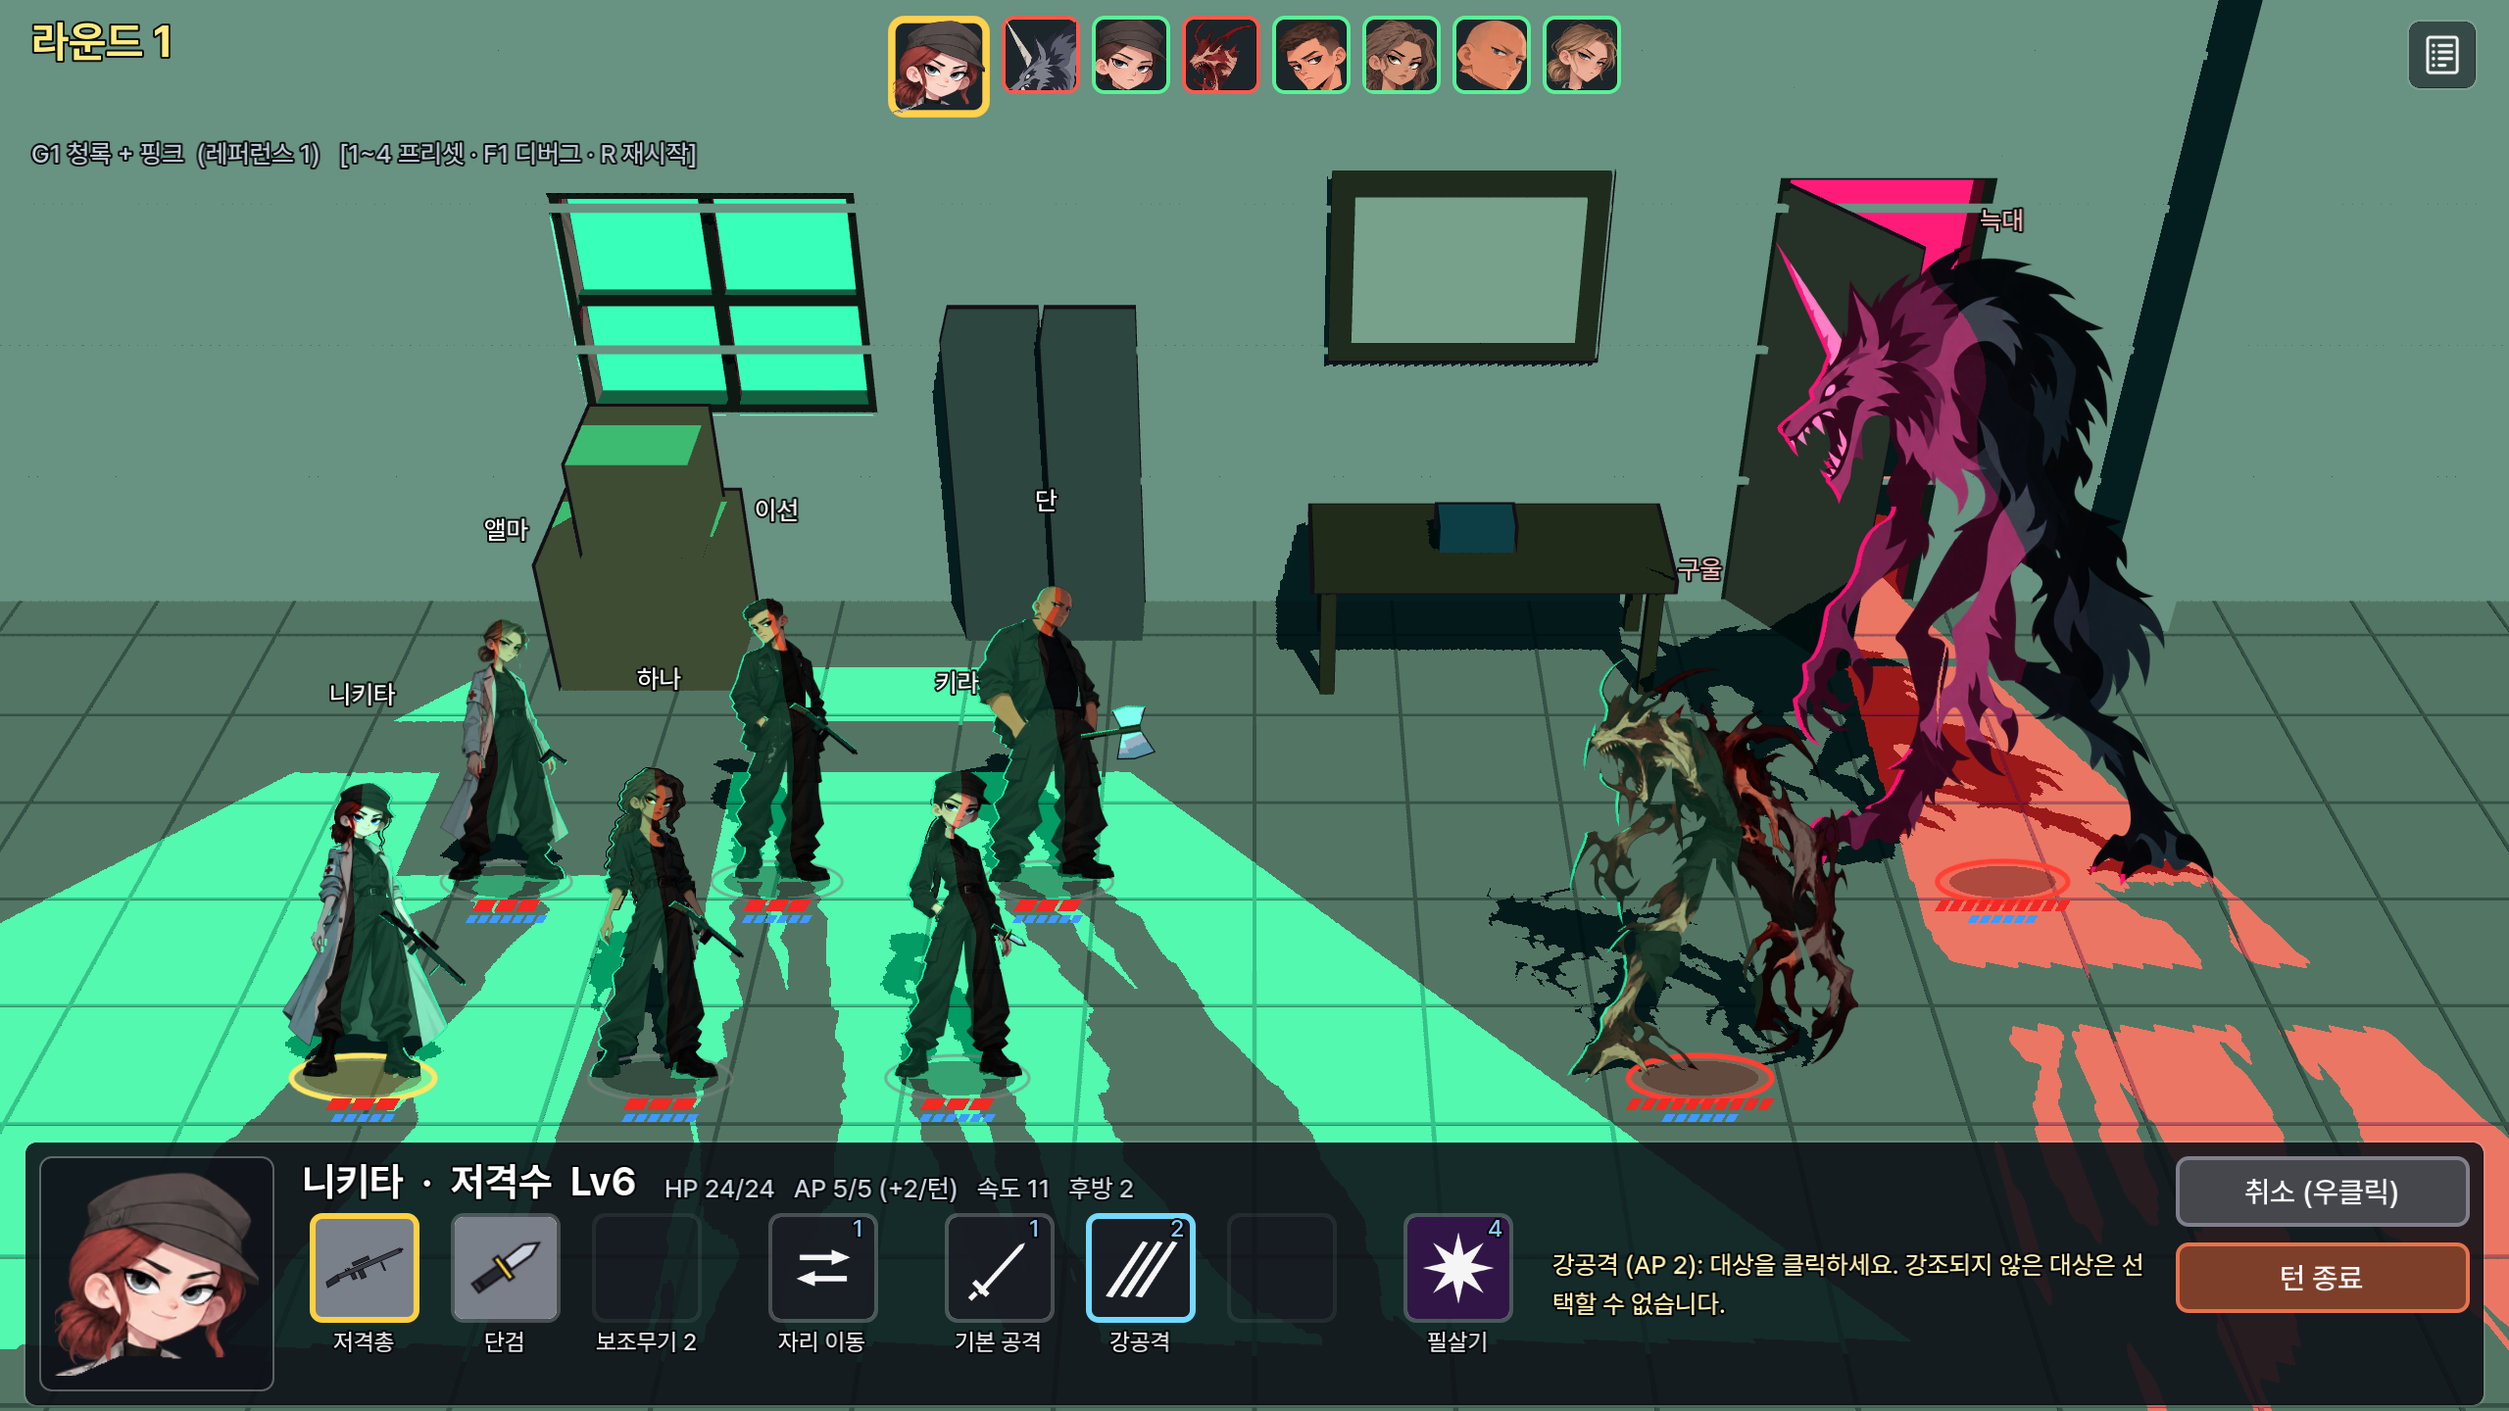
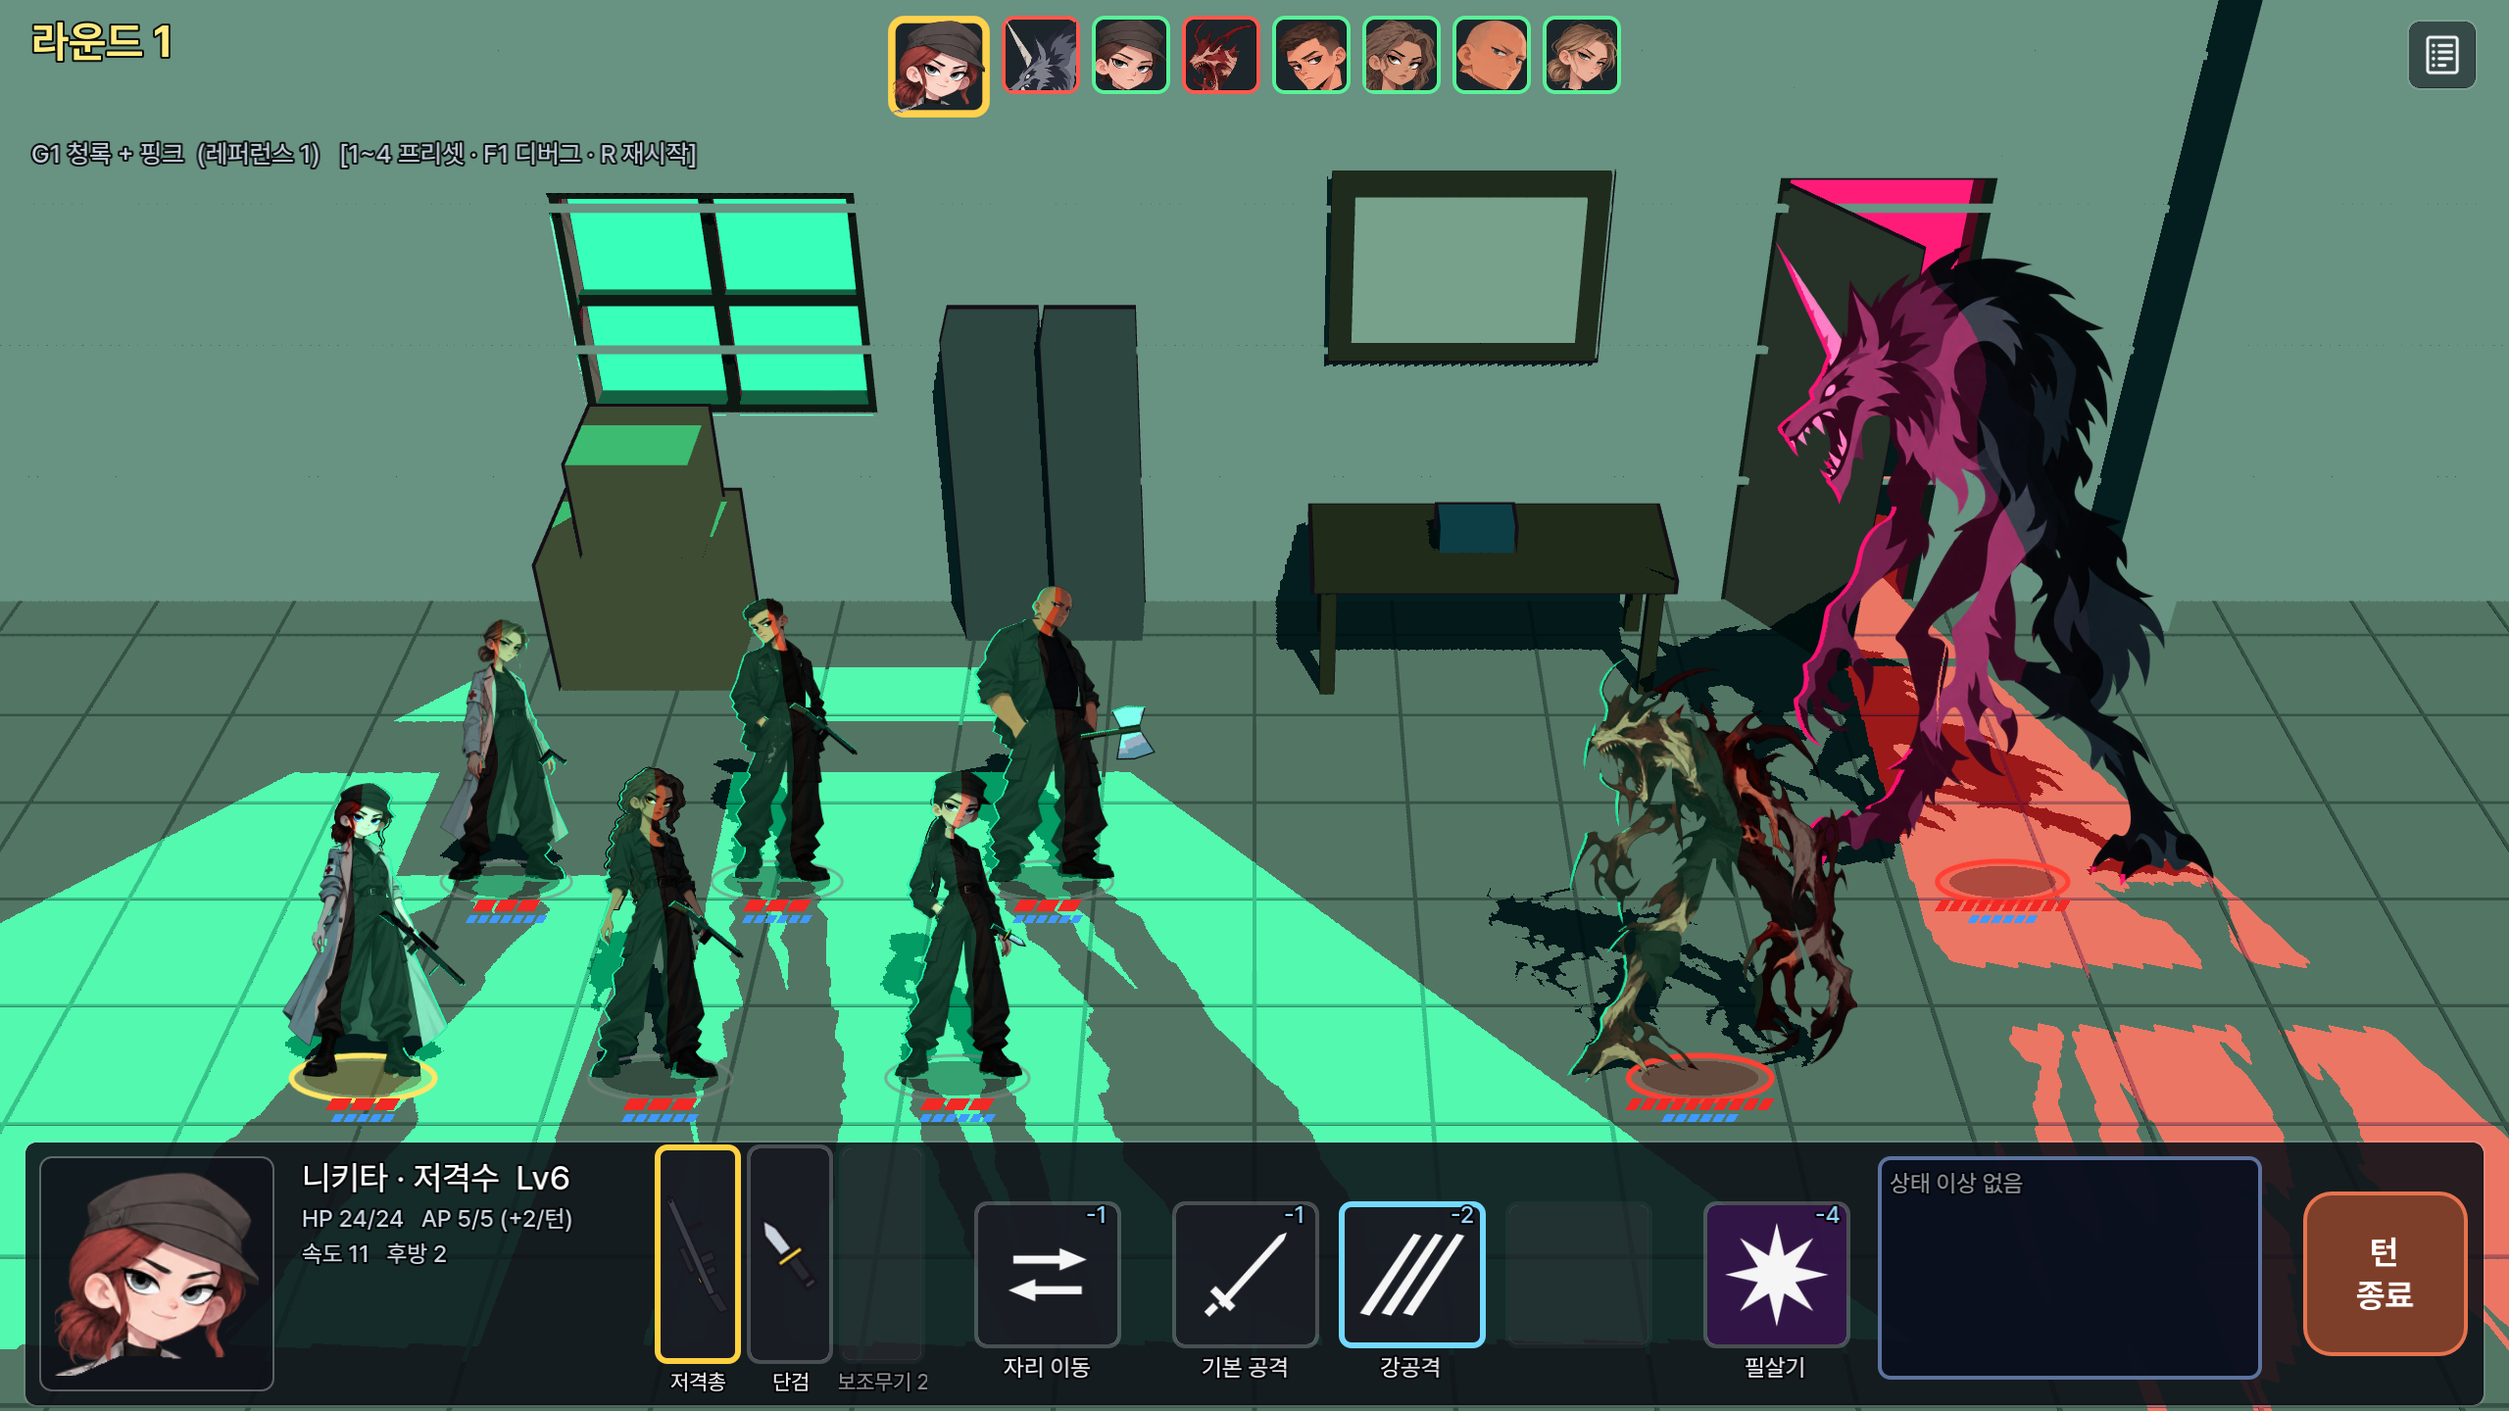
캐릭터 위 이름 제거, 카메라 인스펙터 조절, UI 아트 규격 문서, 기획서 현재 상태 반영
- BattleView2D @export 카메라 그룹(각도·거리·화각·바라보는 점·화면 위치): 값이 바뀌면 투영·
  캐릭터 위치/크기·3D 배경·조명·그림자를 다시 맞춤 (실행 중 원격 인스펙터에서도 즉시)
- HUD: 캐릭터 위 이름 숨김
- docs/ui_art_spec.md: 초상화·스킬/무기 아이콘·HUD 요소·동전·캐릭터 원화 규격
- PROTOTYPE_GDD 0절 "현재 구현 반영", 결정 로그·README 갱신

Claude-Session: https://claude.ai/code/session_014aytw3hj7boqn3SZ5GP5ti

diff --git a/docs/design/PROTOTYPE_GDD_v1_0.md b/docs/design/PROTOTYPE_GDD_v1_0.md
@@ -2,6 +2,27 @@
 
 > 엔진: Godot 4.7 / 목적: 전투 재미 검증 / 상태: 승인된 핵심 규칙 + 구현용 임시값을 구분. 본 문서는 실제 게임 완성본이 아닌 개발 지시용 명세.
 
+## 0. 현재 구현 반영 (변경될 때마다 갱신)
+> 아래는 원 기획 이후 사용자 결정으로 바뀐 내용. 상세 결정 이력은 `00_decision_log_v1_0.md`, 아트 규격은 `../ui_art_spec.md`.
+> 마지막 갱신: 2026-10-26
+
+- **표현**: 캐릭터 2D(Skeleton2D 컷아웃 리그, 원화 기반) + 배경 3D(실광원·그림자). 3D 캐릭터 전환 기능은 제거.
+- **카메라**: 뒤로 물러나 40° 내려다보는 원근, 전투 내내 전체 구도 고정(차례 줌 없음). `battle_2d.tscn` → View 노드 인스펙터에서 각도·거리·화각·바라보는 점·화면 위치 조절.
+- **편성 (6대2)**: 사람 캐릭터 6인 전원 아군 — 전방 단·키라 / 중앙 이선·하나 / 후방 앨마·니키타.
+  적은 **괴물만**: 구울(2.4m, **전방+중앙 두 칸 차지**), 늑대(4m, 후방 한 칸). 슬라임은 제외.
+- **큰 몸집 규칙**: 한 유닛이 같은 줄의 연속한 두 열을 차지(`row_span`). 두 열 모두에 있는 것으로 보아 전방을 막고, 이동·교환 불가, 쓰러지면 두 칸 비움.
+- **선공**: 일반 전투는 3D 동전 연출(앞면 고양이 = 아군 선공 / 뒷면 민짜 = 적 선공), 착지 후 "아군/적 선공" 글자. 연출이 끝나야 1라운드 시작.
+- **상단 HUD**: 좌상단 라운드, 상단 중앙 행동 순서 초상화(호버 시 이름, 차례 유닛 30% 확대), 우상단 전투 기록 아이콘(누르면 기록 창). 상단 바 배경 없음, 동전 결과 글자 없음.
+- **캐릭터 표시**: 이름 표시 없음. 발밑에 체력(붉은 평행사변형 칸: 아군 3칸·적 10칸)과 그 아래 AP(파란 칸, 최대 AP 수만큼). 칸은 화면 맨 위 층.
+- **하단 HUD**: 초상화 | 이름·수치 | 가운데 슬롯 줄(무기 3칸 세로형 · 자리 이동 · 기본 스킬 3칸 · 필살기) | 상태 이상 창 | 턴 종료(둥근 정사각).
+  - 무기 칸 클릭 → "장착하기 AP -1" 버튼, 장착 중 노란 테두리·"장착 중" 비활성.
+  - 자리 이동 클릭 → 파란 바탕 + 화살표 흔들림, 이동·교체 가능한 자리 발밑 파란 표시(부상·큰 몸집 등 이동 불가 캐릭터는 표시 안 함).
+  - 스킬·필살기: 아이콘 + 이름, 호버 시 설명, 사용 불가면 회색 + 붉은 "-AP".
+  - **같은 버튼을 다시 누르면 취소**(우클릭도 취소), 취소 버튼 없음. **AP 는 행동을 실행할 때 소모.**
+- **상태 이상(프로토타입)**: 독려(긍정 — 독려 받은 유닛의 다음 턴 끝까지), 부상(부정 — 자리 이동·교체 불가, 아직 거는 스킬 없음). 창에 한 줄씩, 긍정 녹색/부정 붉은색, 호버 시 설명.
+- **HUD 배치 편집**: `scenes/battle_hud.tscn` 을 Godot 에디터에서 직접 편집.
+- **글꼴**: Pretendard.
+
 ## 1. 범위 및 완료 기준
 - 플레이 가능한 1개 전투 씬, 편성 화면, 결과 화면. 최소 3회 연속 전투 재시작 가능.
 - 전방/중앙/후방 각 2슬롯(최대 6인). 아군 6인과 적군 3~6인 테스트 데이터.
@@ -51,6 +72,7 @@
 - 중복 클릭 방지, 애니메이션 중 입력 잠금, 취소 시 AP 미소모, AP 부족 시 거절.
 
 ## 5. UI 배치
+> 현재 배치는 0절 참고 (상단 행동 순서 초상화, 발밑 체력·AP 칸, 하단 슬롯 줄). 아래는 원 기획.
 - 16:9 기준 횡스크롤 전장. 좌측 아군 3열×2 슬롯, 우측 적군(임시 3열×2).
 - 상단: 라운드, 선공 결과, 행동 순서 타임라인.
 - 캐릭터 위: HP와 현재 AP/최대 AP, 현재 행동자 하이라이트.
@@ -117,5 +139,5 @@ res://
 - 6인 수동 조작이 지나치게 느리거나 번거롭지 않은가?
 
 ## 10. 의도적으로 확정하지 않는 사항
-- 최종 캐릭터 스탯·스킬 비용·피해 계수·적 AI 전략·전열 효과·클래스·상성·상태이상·필살기 별도 자원·수집/육성/군사시설 경영 세부 규칙.
+- 최종 캐릭터 스탯·스킬 비용·피해 계수·적 AI 전략·전열 효과·클래스·상성·상태이상(현재 프로토타입 2종만)·필살기 별도 자원·수집/육성/군사시설 경영 세부 규칙.
 - 위 3절 임시 규칙은 구현 편의를 위한 교체 가능한 값이며 정식 게임 디자인 확정이 아님.

diff --git a/docs/ui_art_spec.md b/docs/ui_art_spec.md
@@ -1,0 +1,45 @@
+# UI·아이콘·초상화 아트 규격
+
+> 게임 좌표는 **1280×720 (논리 px)**, 실제 렌더는 **QHD 2560×1440 (= 논리 ×2)**.
+> 아래 "논리" 크기는 화면에 차지하는 크기, "권장 원본"은 QHD 에서 선명하게(밉맵 포함) 보이도록 그려 넣을 파일 크기.
+> 원칙: **원본 = 논리 크기 × 2 이상, 가능하면 × 4.** 모든 UI 아트는 투명 배경 PNG.
+> 마지막 갱신: 2026-10-26 (HUD 배치는 `scenes/battle_hud.tscn`, 슬롯 크기 상수는 `scripts/ui/battle_hud.gd` 상단)
+
+## 1. 초상화
+| 위치 | 논리 크기 | 그림이 보이는 영역 | 권장 원본 | 비고 |
+|---|---|---|---|---|
+| 상단 행동 순서 | 40×40 (차례: ×1.3 = 52×52) | 36×36 (테두리 2px 안쪽) | **256×256** 정사각 | 꽉 채워 잘림(cover). 얼굴이 가운데 오도록 |
+| 하단 패널 | 104×104 | 104×104 | **512×512** 정사각 | 가운데 맞춤(contain) |
+| 공통 | — | — | — | 얼굴이 **오른쪽**을 보게(아군 기준). 적은 자동 좌우 반전, 원화가 왼쪽을 보면 `art_faces_left` |
+
+현재는 별도 초상화 없이 리그의 `head.png`(약 150×145) 를 정사각으로 잘라 쓰는 중 → 전용 초상화가 생기면 `assets/portraits/<sprite_id>.png` 로 교체 예정.
+
+## 2. 하단 HUD 슬롯
+| 슬롯 | 논리 칸 크기 | 아이콘 영역 | 권장 원본 | 그리기 규칙 |
+|---|---|---|---|---|
+| 스킬 · 자리 이동 · 필살기 | 75×75 | 61×61 (사방 7px 안쪽) | **256×256** | 흰색(#F5F5F5) 단색 글리프. **글리프는 정가운데, 위/아래·좌/우 여백 대칭**, 캔버스의 약 90% 안에 |
+| 무기 | 44×112 (세로) | 36×104 (사방 4px 안쪽) | **가로 512×146 내외** (약 3.5:1) | 무기를 **가로로(총구·날 끝이 오른쪽)** 그림 → 게임이 90° 돌려 세로 칸에 넣음. 바탕이 어두우니 무기 외곽선·하이라이트를 밝게 |
+| AP 비용 표기 | 글자 12pt | — | — | 코드가 "-N" 으로 그림 (사용 가능 파랑 / 불가 빨강) |
+| 칸 이름 | 글자 12pt (무기 11pt) | 칸 아래 16px | — | 코드가 그림 |
+
+현재 아이콘: `assets/textures/ui_move.png`, `ui_basic_attack.png`, `ui_heavy_attack.png`, `ui_heal.png`, `ui_rally.png`, `ui_ultimate.png` (128×128, `tools/gen_ui_icons.py` 임시 생성).
+스킬 아이콘 파일명 = `ui_<스킬 id>.png` 이면 자동으로 쓰임 (없으면 기본 공격 / 필살기 아이콘).
+
+## 3. 기타 HUD
+| 요소 | 논리 크기 | 권장 원본 | 비고 |
+|---|---|---|---|
+| 전투 기록 아이콘 (우상단) | 버튼 36×36, 아이콘 24×24 | **128×128** | `ui_log.png` (현재 64×64) |
+| 턴 종료 버튼 | 84×84, 모서리 반경 14 | (코드 스타일) | 이미지로 바꿀 경우 **256×256** |
+| 상태 이상 줄 | 줄 높이 약 22, 창 196×114 | 아이콘 추가 시 **64×64** (논리 16×16) | 현재 글자만. 긍정 녹색 / 부정 붉은색 |
+| 선공 동전 앞면 | 화면 지름 약 268 | **512×512** (원이 캔버스를 꽉 채움) | `assets/textures/coin_cat.png`, 뒷면은 그림 없음 |
+| 체력·AP 칸 | 체력 칸 15×8(아군)·8×8(적), AP 칸 7×5 (원근 배율 적용) | — | 코드가 평행사변형으로 그림 |
+
+## 4. 캐릭터 원화 (참고)
+| 항목 | 규격 |
+|---|---|
+| 원본 | **1024×1536** 전신, 투명 배경(검정 배경은 `tools/remove_black_bg.py`), 발이 아래쪽 |
+| 화면 키 | 175cm = 논리 230px (리그는 원본의 0.5배로 잘라 씀) |
+| 큰 몸집 괴물 | 가로 원화도 가능 (예: 슬라임 1536×1024). 키(cm)와 차지 칸(`row_span`)은 로스터에서 지정 |
+
+## 5. 글꼴
+Pretendard — Regular / Medium(기본) / Bold(20pt 이상·라운드·턴 종료). 크기(논리 pt): 라운드 22, 이름 17, 수치·칸 이름 12, 툴팁 14.

diff --git a/docs/design/00_decision_log_v1_0.md b/docs/design/00_decision_log_v1_0.md
@@ -28,6 +28,8 @@
   - 무기 3칸(주무기·보조무기1·보조무기2): 세로로 긴 칸(패널 천장까지, 무기 원화 90° 회전), 칸 사이 간격은 다른 슬롯의 절반. 클릭 → 그 위에 불투명 검은 버튼 "장착하기 AP -1". 장착 중인 무기는 노란 테두리, 클릭하면 "장착 중"(비활성).
   - 자리 이동: 클릭 → 버튼 바탕이 파란색, 가운데 화살표가 좌우로 살짝 흔들림. 이동·교체 가능한 자리 발밑에 파란 표시. 부상·상태이상(move_locked)·큰 몸집으로 옮길 수 없는 캐릭터 자리는 표시 안 함.
   - 기본 스킬 3칸: 아이콘 + 아래 이름, 호버 시 효과 설명. 필살기 1칸: 호버 시 효과 설명. 우상단 숫자 = AP 비용.
+- 캐릭터 위 이름 표시 제거 (2026-10-26). 카메라 각도·거리·화각·바라보는 점·화면 위치는 `battle_2d.tscn` View 노드 인스펙터에서 조절 (실행 중 원격 탭에서도 즉시 반영).
+- UI·아이콘·초상화 아트 규격: `docs/ui_art_spec.md`.
 - HUD 배치는 `scenes/battle_hud.tscn` 노드로 저장 → Godot 에디터에서 직접 위치 편집 (2026-10-26). 코드는 이름으로 노드를 찾아 연결만 함.
 - 선공 동전 연출 (2026-10-26): 일반 전투 시작 시 화면 아래에서 3D 금화가 튀어 올라 오른쪽으로 돌다 떨어짐.
   **앞면 = 고양이 새김 = 아군 선공, 뒷면 = 아무것도 없는 매끈한 면 = 적 선공.** 착지 후 "아군 선공"/"적 선공" 글자를 잠깐 띄움. 연출이 끝난 뒤 첫 라운드 시작 (기습·매복은 동전 없음).

diff --git a/README.md b/README.md
@@ -62,6 +62,14 @@ git 이 없는 설치(zip)는 같은 설치 명령을 다시 실행하면 최신
 - `godot --headless --path . ++ --export_hud=1` 은 코드 기본값으로 `battle_hud.tscn` 을 **다시 만들어 편집한 배치를 덮어씁니다** (처음 생성용).
 - 맥에서 배치를 고친 뒤 `git pull` 을 하면 충돌할 수 있으니, 고친 `battle_hud.tscn` 은 커밋하거나 알려 주세요.
 
+## 카메라 각도 조절 (인스펙터)
+에디터에서 `scenes/battle_2d.tscn` 을 열고 `View` 노드를 선택 → 인스펙터 **카메라** 그룹:
+`Cam Pitch Deg`(내려다보는 각도) · `Cam Distance`(거리) · `Cam Fov Deg`(화각) · `Cam Target`(바라보는 바닥 위 점) · `Cam Screen Center`(그 점이 놓이는 화면 위치).
+저장 후 실행하면 캐릭터 위치·크기, 3D 배경, 조명, 그림자가 그 구도로 맞춰집니다. 게임 실행 중에는 씬 트리의 **원격(Remote)** 탭 → `Battle2D/View` 를 골라 값을 바꾸면 즉시 반영.
+(캐릭터 원화 자체는 평면 그림이라 각도를 바꿔도 그림이 다시 그려지지는 않습니다.)
+
+아트 규격(아이콘·초상화·UI): `docs/ui_art_spec.md`
+
 ## 실행
 1. 위 설치 스크립트를 썼다면 `play.bat` / `play.sh`. 직접 설치한 Godot 4.7 (stable) 로 이 폴더를 열어 F5 해도 됩니다. 메인 씬 `scenes/main_menu.tscn`.
 2. 메뉴에서 조명 프리셋(G1~G4), 선공(동전/아군 기습/적 매복), 시드를 고른 뒤 편성 → 전투.
